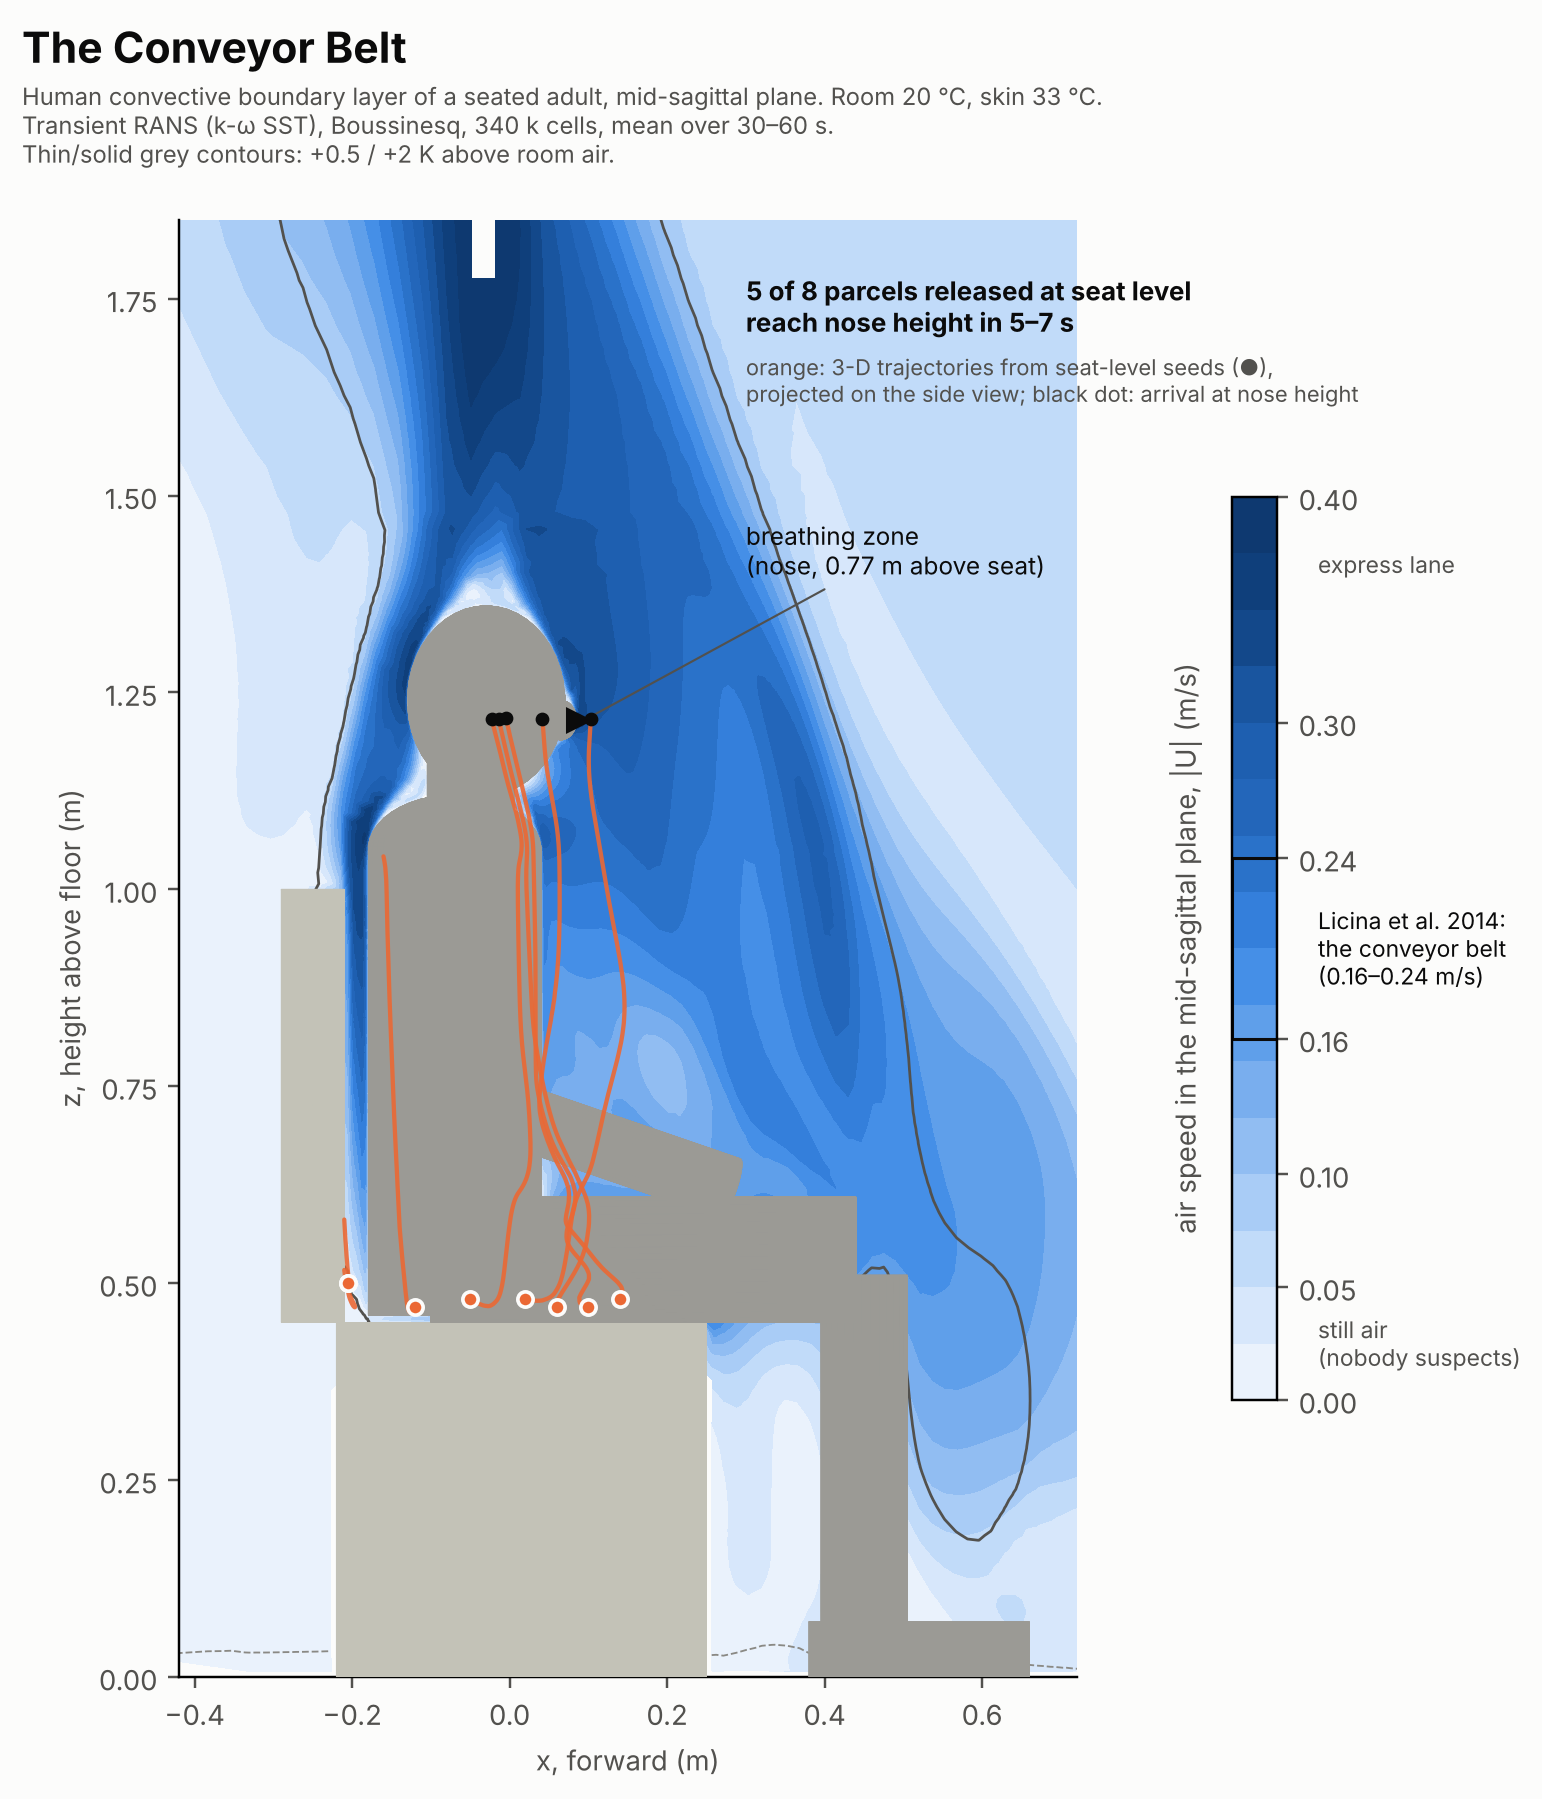
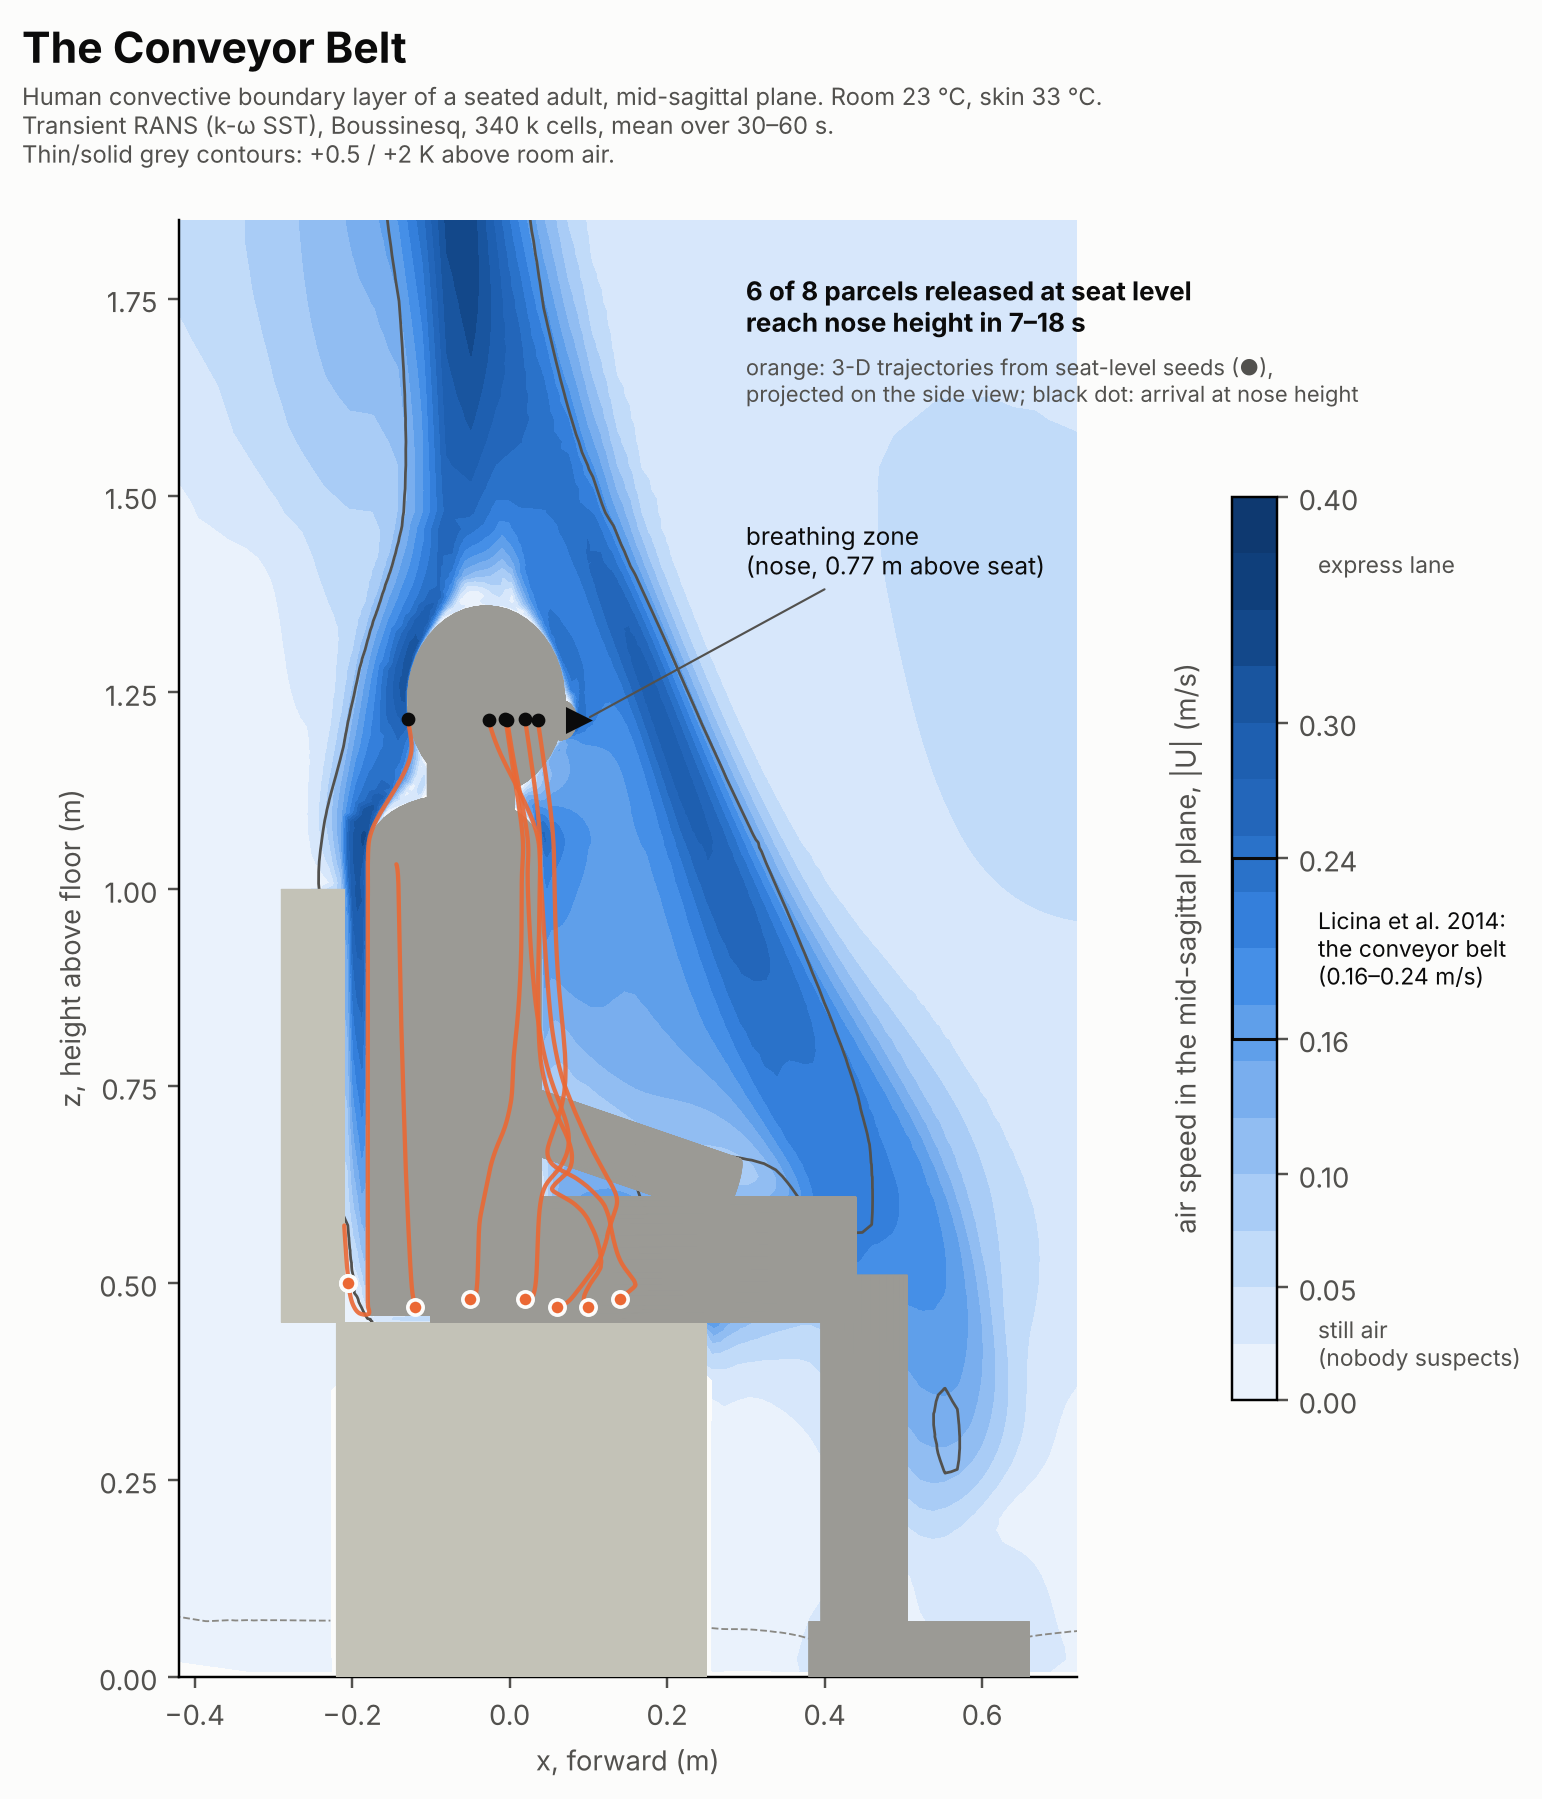
M3b: 23 C transient CBL result; conveyor-belt figure at 23 C
Face-front peak 0.28 +/- 0.02 m/s (20 C: 0.34). The trend matches Licina et al.
(-19 % vs -17 % interpolated), the level is ~40 % high. At 23 C, 6 of 8 seat-level
parcels reach nose height (five in 6.8-8.0 s, one in 18.4 s).

Claude-Session: https://claude.ai/code/session_0131NedNevRvPP7dQji5Ca7Y

Changed region(s): [[0.1868, 0.1245, 0.716, 0.8716], [0.6537, 0.1556, 0.716, 0.1868]]

diff --git a/cfd/validation/m3_report.md b/cfd/validation/m3_report.md
@@ -62,26 +62,30 @@
   field; the 26 °C run starts from rest. Statistics are taken over 30–60 s (`fieldAverage` UMean/TMean; line samples
   every 0.5 s).
 
-**Results** (pending: 23 °C and 26 °C runs)
+**Results** (pending: 26 °C run)
 
 | room | peak U_z in front of face (mean ± sd) | Licina et al. 2014 |
 |---|---|---|
 | 20 °C | 0.34 ± 0.01 m/s | 0.24 m/s (clothed), 0.205 m/s (nude) |
-| 23 °C | *running* | — |
+| 23 °C | 0.28 ± 0.02 m/s | ≈ 0.20 m/s (linear between 20 and 26 °C) |
 | 26 °C | *queued* | 0.16 m/s |
 
-- At 20 °C the CFD conveyor belt is about 40 % faster than the thermal-manikin measurement.
+- The CFD conveyor belt is about 40 % faster than the thermal-manikin measurement at both 20 and 23 °C.
+- The room-temperature trend has the right sign and size: −19 % from 20 to 23 °C, against −17 % interpolated from
+  Licina et al.
 - Candidate causes:
   - coarse near-wall resolution with wall functions;
   - a sealed half room whose walls are held at room temperature (no stratification);
   - a geometric manikin with no hair or clothing.
-- The room-temperature trend (Licina: −33 % from 20 to 26 °C) is the second criterion and will be checked once the set
-  completes.
+- The full room-temperature trend (Licina: −33 % from 20 to 26 °C) will be checked once the 26 °C run completes.
 
-**Conveyor-belt trajectories** (20 °C, time-mean field, `cfd/postprocess/conveyor_from_cbl.sh`):
+**Conveyor-belt trajectories** (time-mean field, `cfd/postprocess/conveyor_from_cbl.sh`; the figure shows 23 °C, the
+Scenario A room temperature):
 
-- 5 of 8 massless parcels released at seat level reach nose height, in **4.7–7.4 s**.
-- Gate 0 assumed L/u = 0.74 / 0.17 ≈ 4.4 s for own-nose transport. The CFD time is 7–70 % longer.
+- At 20 °C, 5 of 8 massless parcels released at seat level reach nose height, in **4.7–7.4 s**.
+- At 23 °C, 6 of 8 reach it: five in **6.8–8.0 s** and one from behind the hips in 18.4 s.
+- Gate 0 assumed L/u = 0.74 / 0.17 ≈ 4.4 s for own-nose transport. The CFD time is 1.1–1.8× that at 20 °C and about
+  1.6–1.8× at 23 °C (ignoring the slow parcel).
 - The earlier 8–18 s from the unconverged steady field is withdrawn.
 - Given the 40 % over-prediction of the CBL velocity, the true transport time is probably longer still. Gate 0 will
   carry the CFD range as its own-nose transport-time distribution.
